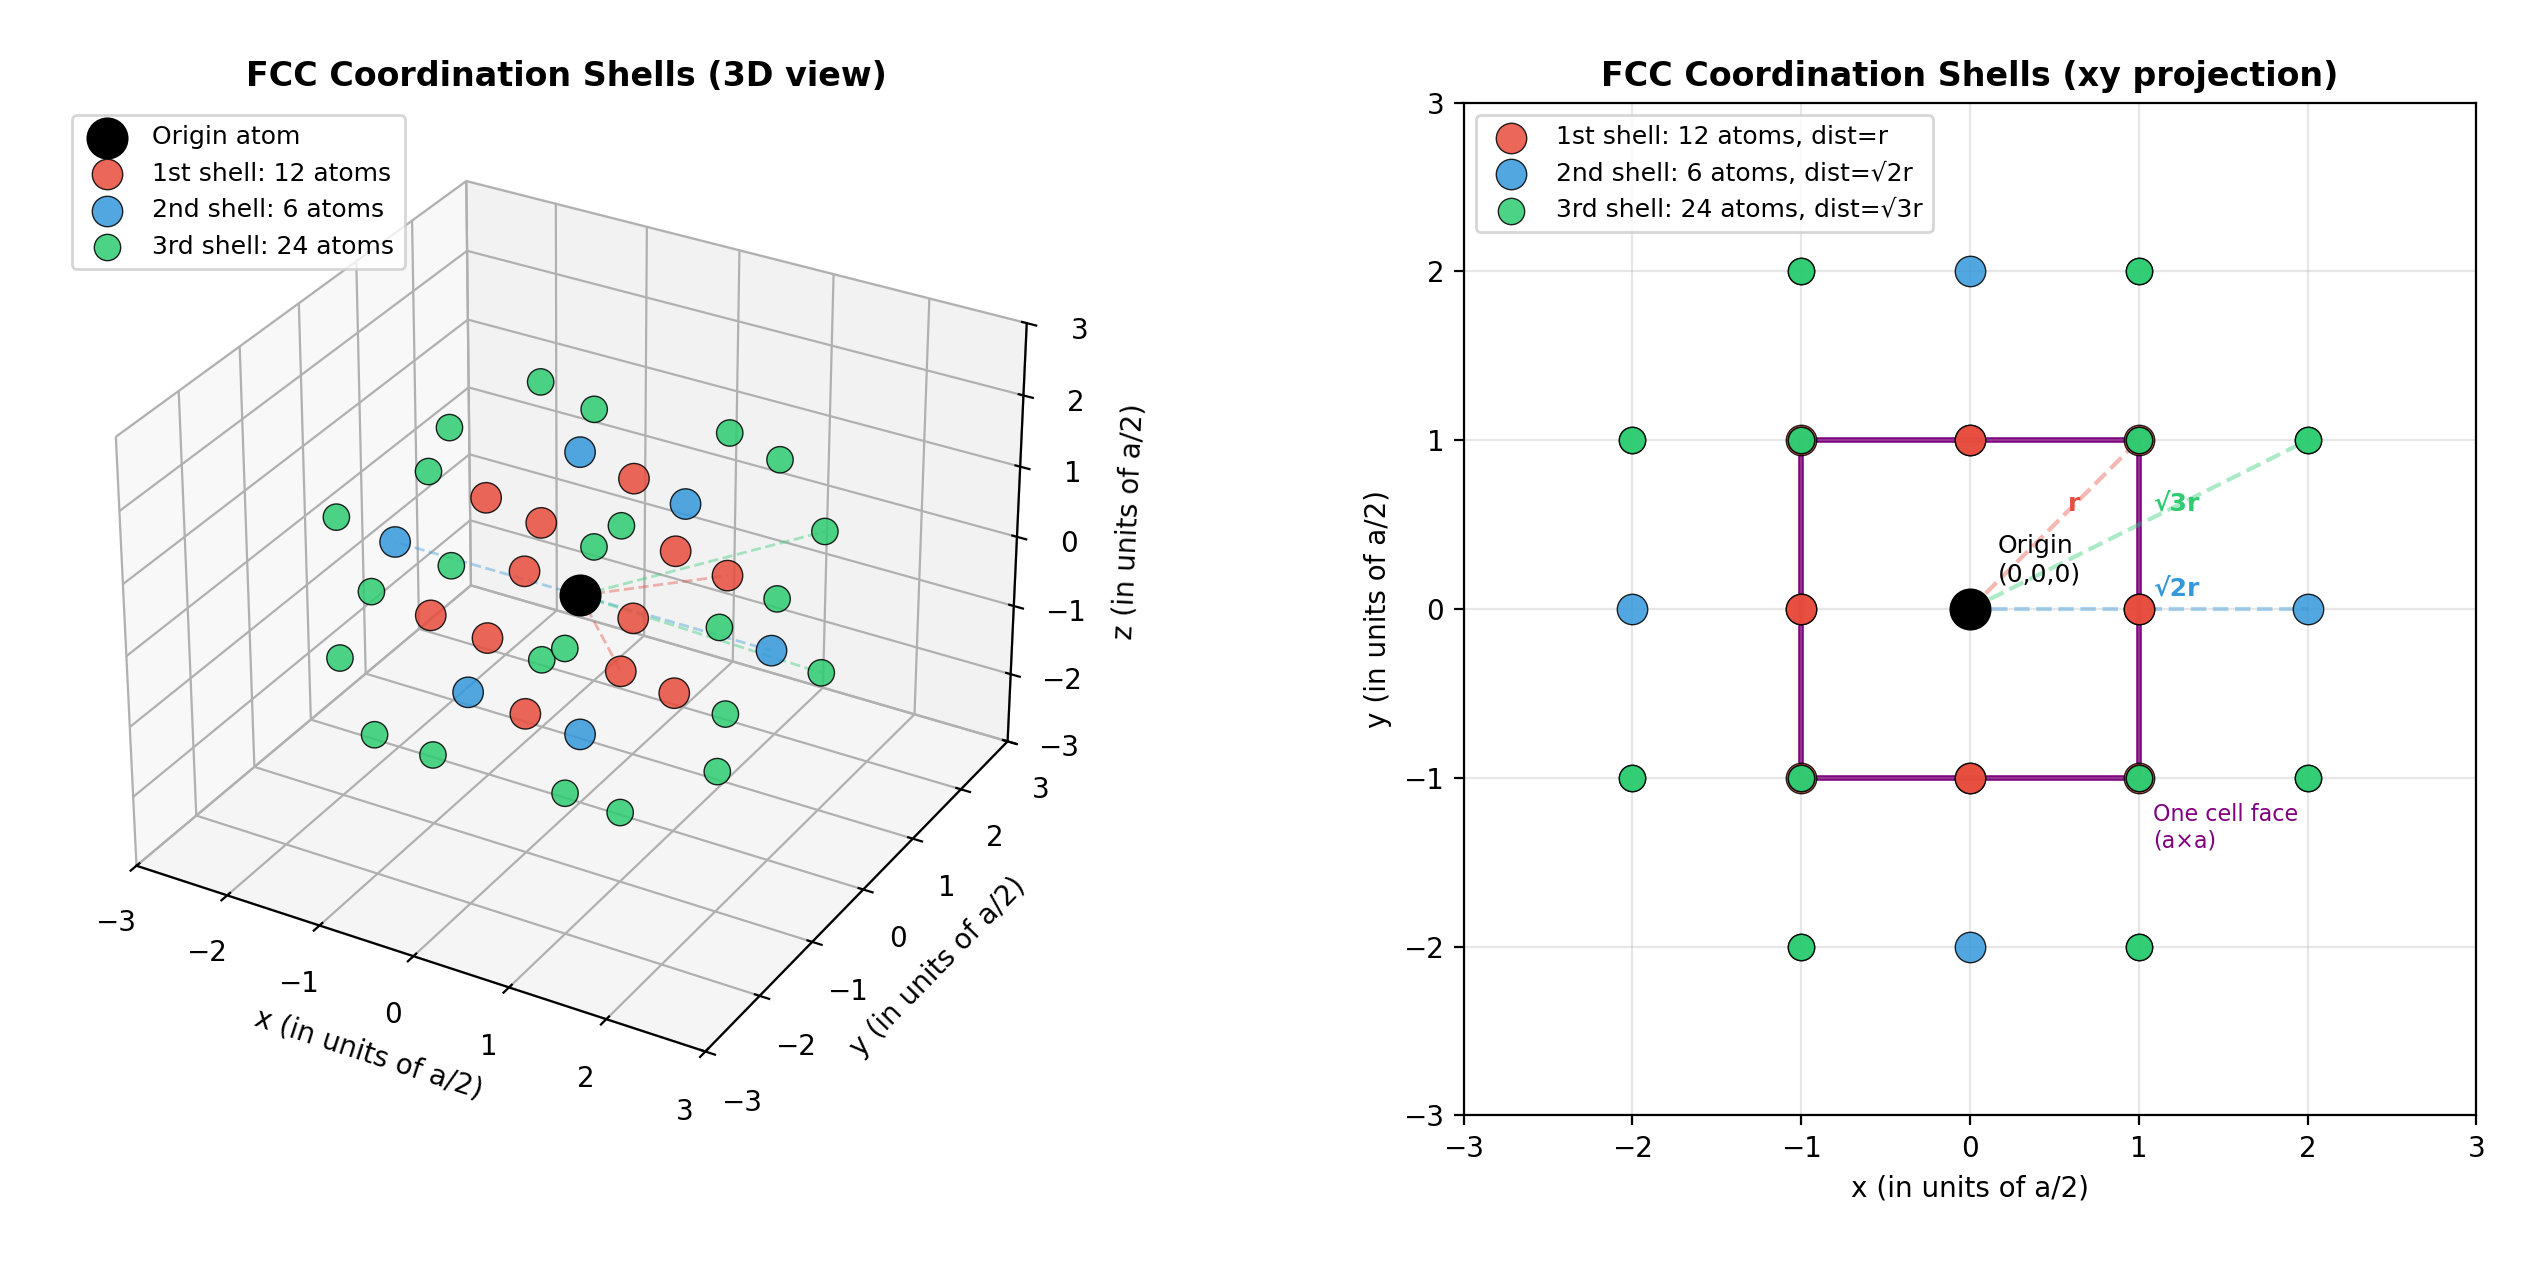
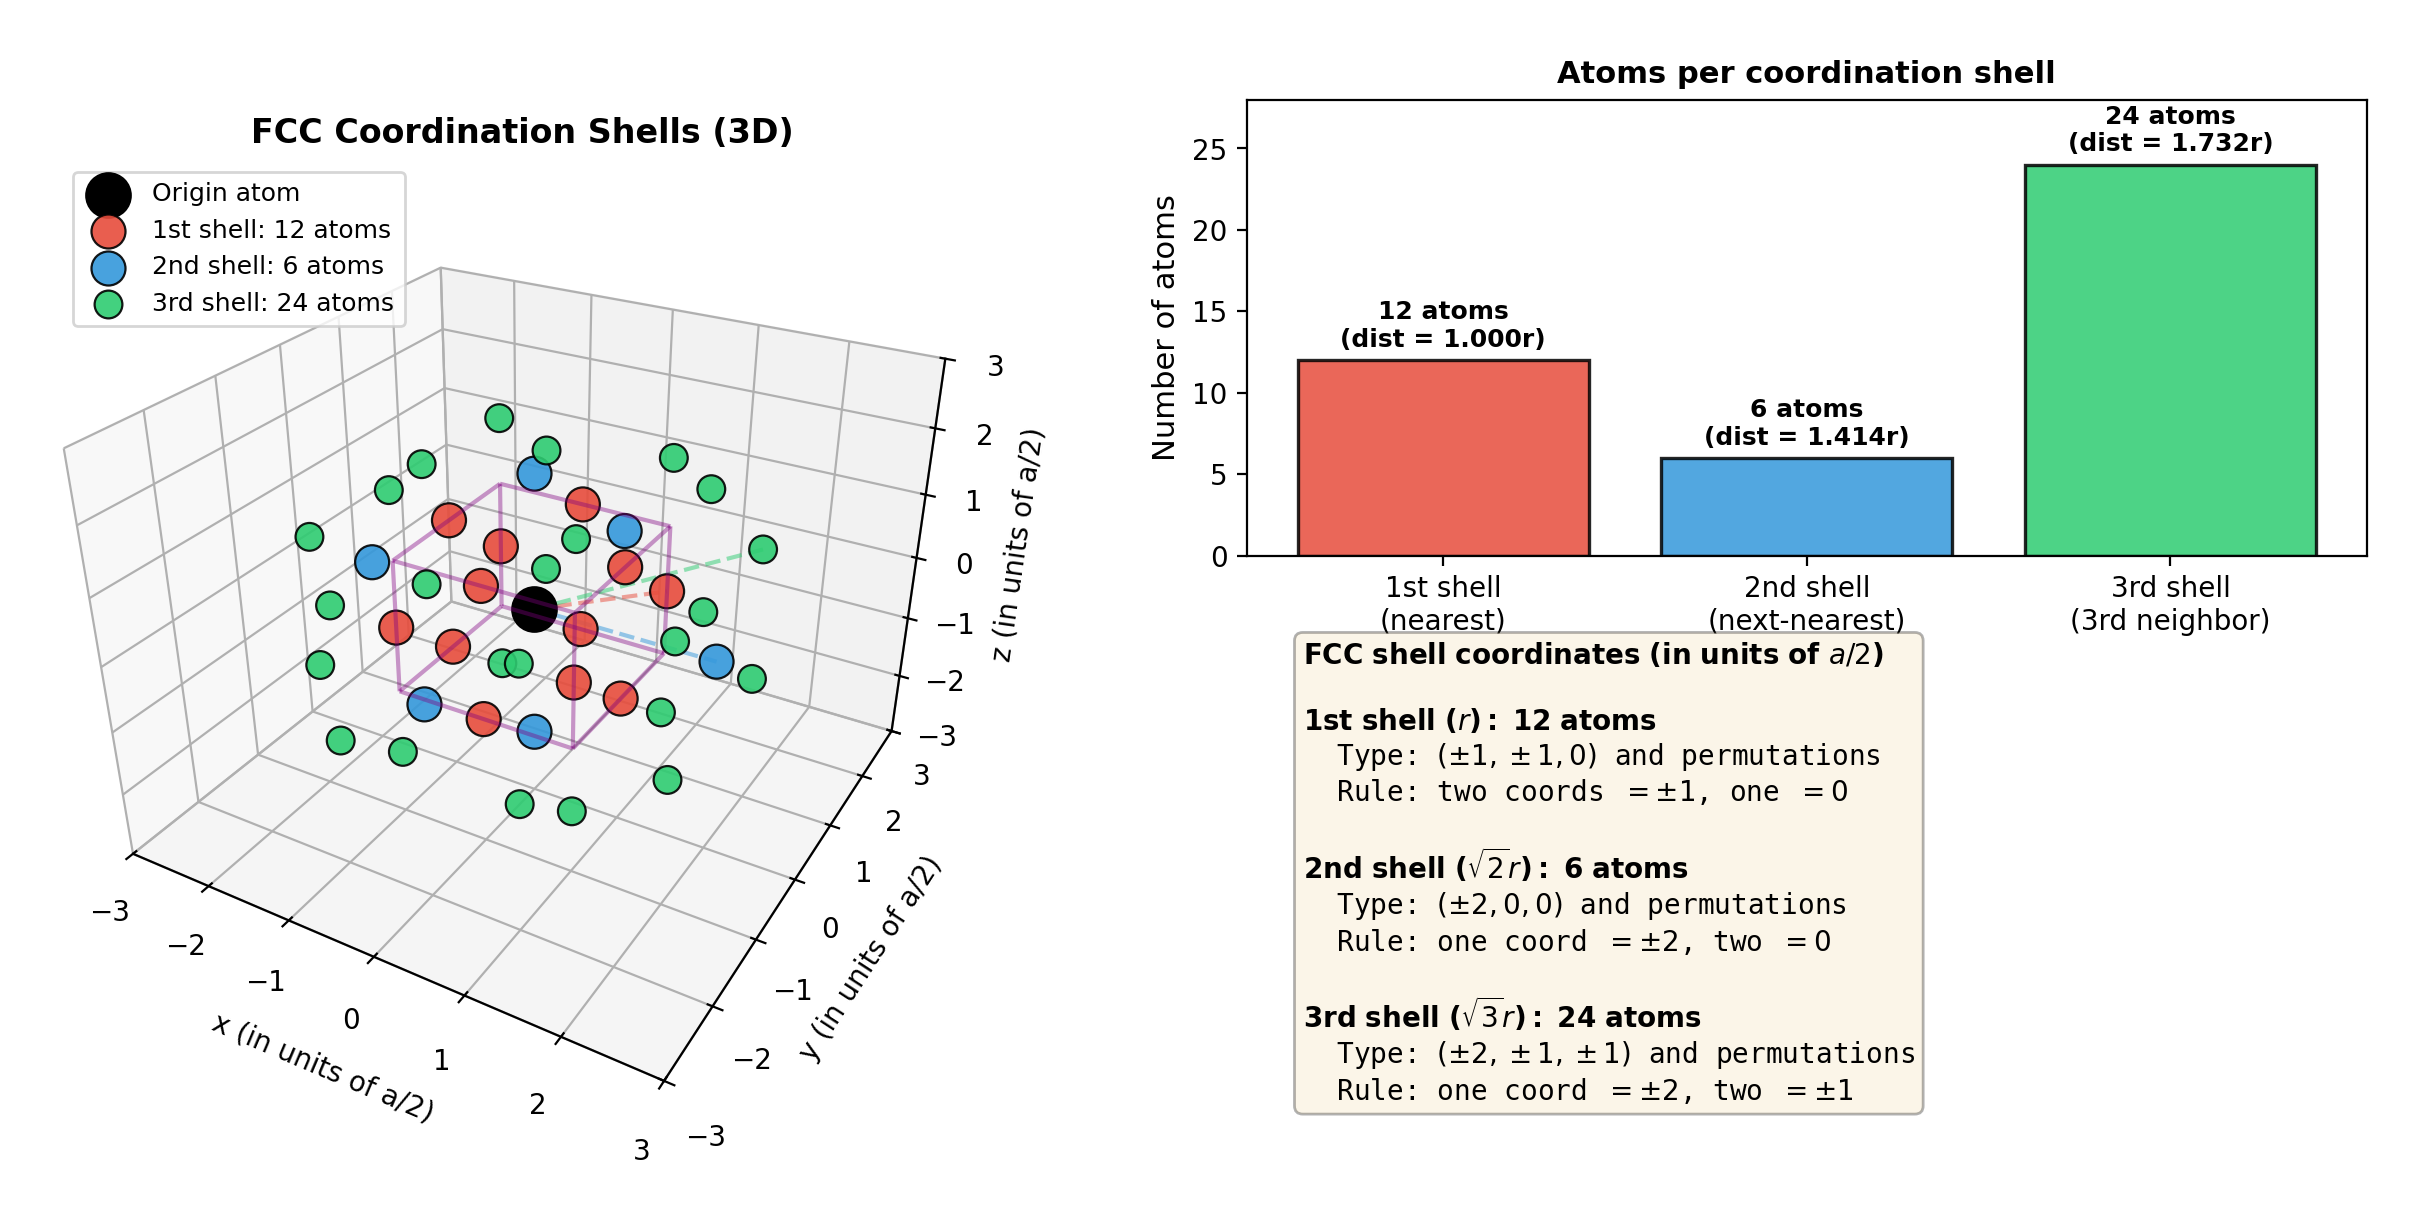
fix(sec36-38): fix d symbol display, regenerate FCC diagram, remove cell drawing box
- sec37: fix persistent d-symbol display issue by using \multicolumn
  to force text mode instead of math mode for the d character
- sec37: rewrite thermodynamic dependency section with natural
  variables table (U(S,V), H(S,p), F(T,V), G(T,p)) and explicit
  chain-rule guidance for choosing independent variables
- sec38: regenerate fcc_shells.png to fix projection overlap issue:
  * Replace confusing xy projection with clear bar chart showing
    atom counts per shell (12/6/24) with distance labels
  * Add coordinate pattern box explaining FCC shell coordinates
    in units of a/2 (permutation rules for each shell)
  * Keep improved 3D view with unit cell wireframe overlay
- sec36: remove entire unit cell drawing insightbox per user request
- Compile verified with xelatex (205 pages)

diff --git a/tex/exam-prep/sec37.tex b/tex/exam-prep/sec37.tex
@@ -155,7 +155,7 @@
 \textbf{符号} & \textbf{含义} & \textbf{例子} \\
 \hline
 $\partial$ & 偏导数，固定其他变量 & $(\partial p/\partial V)_T$ 表示\"温度不变时压强随体积的变化率\" \\
-$\text{d}$ & 状态函数的无穷小变化（全微分） & $\mathrm{d}U$ 是内能变化，$\oint\mathrm{d}U = 0$ \\
+\multicolumn{1}{l|}{d} & 状态函数的无穷小变化（全微分） & $\mathrm{d}U$ 是内能变化，$\oint\mathrm{d}U = 0$ \\
 $\delta$ & 过程量的无穷小量（不是全微分） & $\delta W = p\,\mathrm{d}V$（功与路径有关，$\oint\delta W \neq 0$） \\
 \hline
 \end{tabular}
@@ -176,15 +176,34 @@ $\delta$ & 过程量的无穷小量（不是全微分） & $\delta W = p\,\mathr
 \]
 若盲目只写 $\mathrm{d}p = (\partial p/\partial V)_S\,\mathrm{d}V$ 而忘了 $\mathrm{d}S \neq 0$，就会漏项。\textbf{安全做法}：先写全微分，再代入约束条件消去被固定的变量。
 
-\textbf{更深层的难点——嵌套依赖与小量近似}：
+\textbf{更深层的难点——不知道有哪些依赖关系}：
 
-热力学中变量之间的依赖关系常常是\textbf{嵌套}的。例如统计物理中求熵随温度的变分：
+热力学中每个量该当作谁的函数，由\textbf{自然变量}决定：
+\begin{center}
+\renewcommand{\arraystretch}{1.4}
+\begin{tabular}{|c|c|c|}
+\hline
+\textbf{热力学势} & \textbf{自然变量} & \textbf{基本关系} \\
+\hline
+内能 $U$ & $S, V$ & $\mathrm{d}U = T\,\mathrm{d}S - p\,\mathrm{d}V$ \\
+焓 $H$ & $S, p$ & $\mathrm{d}H = T\,\mathrm{d}S + V\,\mathrm{d}p$ \\
+自由能 $F$ & $T, V$ & $\mathrm{d}F = -S\,\mathrm{d}T - p\,\mathrm{d}V$ \\
+吉布斯函数 $G$ & $T, p$ & $\mathrm{d}G = -S\,\mathrm{d}T + V\,\mathrm{d}p$ \\
+\hline
+\end{tabular}
+\end{center}
+
+\textbf{规则}：看微分式右边的变量——那就是该热力学势的\textbf{独立变量}。例如 $U = U(S,V)$，不是 $U(T,V)$。如果题目要求 $(\partial U/\partial T)_V$，不能直接从 $\mathrm{d}U$ 读，而要用链式法则：
+\[
+  \left(\frac{\partial U}{\partial T}\right)_V = \left(\frac{\partial U}{\partial S}\right)_V\left(\frac{\partial S}{\partial T}\right)_V = T\left(\frac{\partial S}{\partial T}\right)_V .
+\]
+
+\textbf{嵌套依赖的处理}：统计物理中常遇到"固定化学势 $\mu$ 求变分，但 $\mu$ 本身又依赖于 $T$"。处理方法是：
 \begin{enumerate}[nosep]
-  \item 先写 $\delta S = (\partial S/\partial T)_\mu\,\delta T + (\partial S/\partial \mu)_T\,\delta \mu$；
-  \item 发现 $\mu$ 本身也是 $T$ 的函数，$\delta \mu = (\partial \mu/\partial T)\,\delta T$；
-  \item 代回得 $\delta S = [(\partial S/\partial T)_\mu + (\partial S/\partial \mu)_T (\partial \mu/\partial T)]\,\delta T$；
-  \item 若 $(\partial \mu/\partial T)$ 很小（某些情况下确实如此），可近似忽略第二项，退化为单变量导数。
+  \item 先按题目要求写出偏导数（固定 $\mu$）；
+  \item 如果发现 $\mu$ 实际上随 $T$ 变化，把 $\delta\mu = (\partial\mu/\partial T)\delta T$ 代入；
+  \item 最后判断 $(\partial\mu/\partial T)$ 是否足够小，决定能否忽略修正项。
 \end{enumerate}
 
-\textbf{关键认知}：嵌套依赖不要害怕，\textbf{一步一步代入}，最后判断哪些交叉项可以忽略。考试中常见的简化是"某量随某变量变化很小"，这是一种\textbf{受控近似}，不是随意丢项。
+\textbf{考场建议}：拿到热力学题，\textbf{先写出对应热力学势的全微分}，明确谁是独立变量，再决定求导路径。这是避免漏项的根本方法。
 \end{insightbox}

diff --git a/tex/exam-prep/sec36.tex b/tex/exam-prep/sec36.tex
@@ -185,56 +185,6 @@
 \end{itemize}
 \end{insightbox}
 
-\begin{insightbox}{元胞手绘——如何画出"一眼能数清"的晶胞}
-
-\textbf{核心痛点}：单画一个晶胞，角上的原子只剩 1/8、棱上只剩 1/4，看起来像碎片，没有"被包裹"的确定性。
-
-\textbf{更深层的问题}：即使是 $2\times 2$ 阵列，框出的晶胞仍然在大阵列的表面上——\textbf{没有一个晶胞是真正被完全包围的}。用户说得对，$2\times 2$ 解决不了"内部感"。
-
-\vspace{0.5em}
-\textbf{2D 正确解法——3$\times$3 框中心}
-
-画 $3\times 3 = 9$ 个正方形拼成大正方形，\textbf{框出正中间那一个}：
-\begin{itemize}[nosep]
-  \item 中间晶胞的四条边都在阵列\textbf{内部}，每条边两侧都有相邻晶胞；
-  \item 四角的每个原子被 4 个晶胞共享，标注 $\times\frac{1}{4}$；
-  \item 四条边中点的原子各被 2 个晶胞共享，标注 $\times\frac{1}{2}$；
-  \item 若晶胞中心有原子，完全属于该晶胞，标注 $\times 1$。
-\end{itemize}
-
-\textbf{示例——二维正方格子（含中心原子）}：
-\begin{itemize}[nosep]
-  \item 画 $3\times 3$ 阵列，框中心；
-  \item 中心晶胞含：4 个角（各 $\frac{1}{4}$）+ 4 条边中点（各 $\frac{1}{2}$）+ 1 个中心（$\times 1$）；
-  \item 数：$4\times\frac{1}{4} + 4\times\frac{1}{2} + 1 = 1 + 2 + 1 = \boxed{4}$ 个原子。
-\end{itemize}
-
-这就是 $2\times 2$ 做不到的——\textbf{中心晶胞确实被邻居从四面八方抱住}，一眼就能看出边界在哪里。
-
-\vspace{0.5em}
-\textbf{3D 简法——完整原子 + 直接标注}
-
-$3\times 3\times 3 = 27$ 个立方体考场上画不动，换最简策略：
-\begin{enumerate}[nosep]
-  \item \textbf{画一个立方体}（斜二测或正视图都可以），只画可见的边（通常 3--6 条实线即可）；
-  \item \textbf{画完整原子}：在 8 个角、12 条棱中、6 个面心、1 个体心的位置画完整符号（圈/叉），\textbf{不要被立方体边界切割}；
-  \item \textbf{直接标权重}：每个原子旁边写分摊系数（角 $\times\frac{1}{8}$、棱 $\times\frac{1}{4}$、面 $\times\frac{1}{2}$、体 $\times 1$）。
-\end{enumerate}
-
-\textbf{不需要画虚线、不需要画相邻晶胞}——阅卷老师只看框内的分摊计算是否正确。
-
-\textbf{示例——简单立方 3D}：
-\begin{itemize}[nosep]
-  \item 画一个立方体（前面一个正方形 + 顶边和右边用斜线拉出深度感）；
-  \item 8 个角画圆圈，旁标 $\times\frac{1}{8}$；
-  \item 12 条棱中点画符号，旁标 $\times\frac{1}{4}$；
-  \item 6 个面心画符号，旁标 $\times\frac{1}{2}$；
-  \item 体心画符号，旁标 $\times 1$；
-  \item 数：$8\times\frac{1}{8} + 12\times\frac{1}{4} + 6\times\frac{1}{2} + 1 = 1+3+3+1 = \boxed{8}$。
-\end{itemize}
-
-\textbf{关键认知}：3D 中不要追求"画出一个完全被包围的晶胞"（那需要 $3\times 3\times 3$ 阵列，不现实）。\textbf{最简方案}：画一个立方体 + 完整原子 + 直接标注权重。阅卷老师看的是计算，不是美术。
-\end{insightbox}
 
 
 
